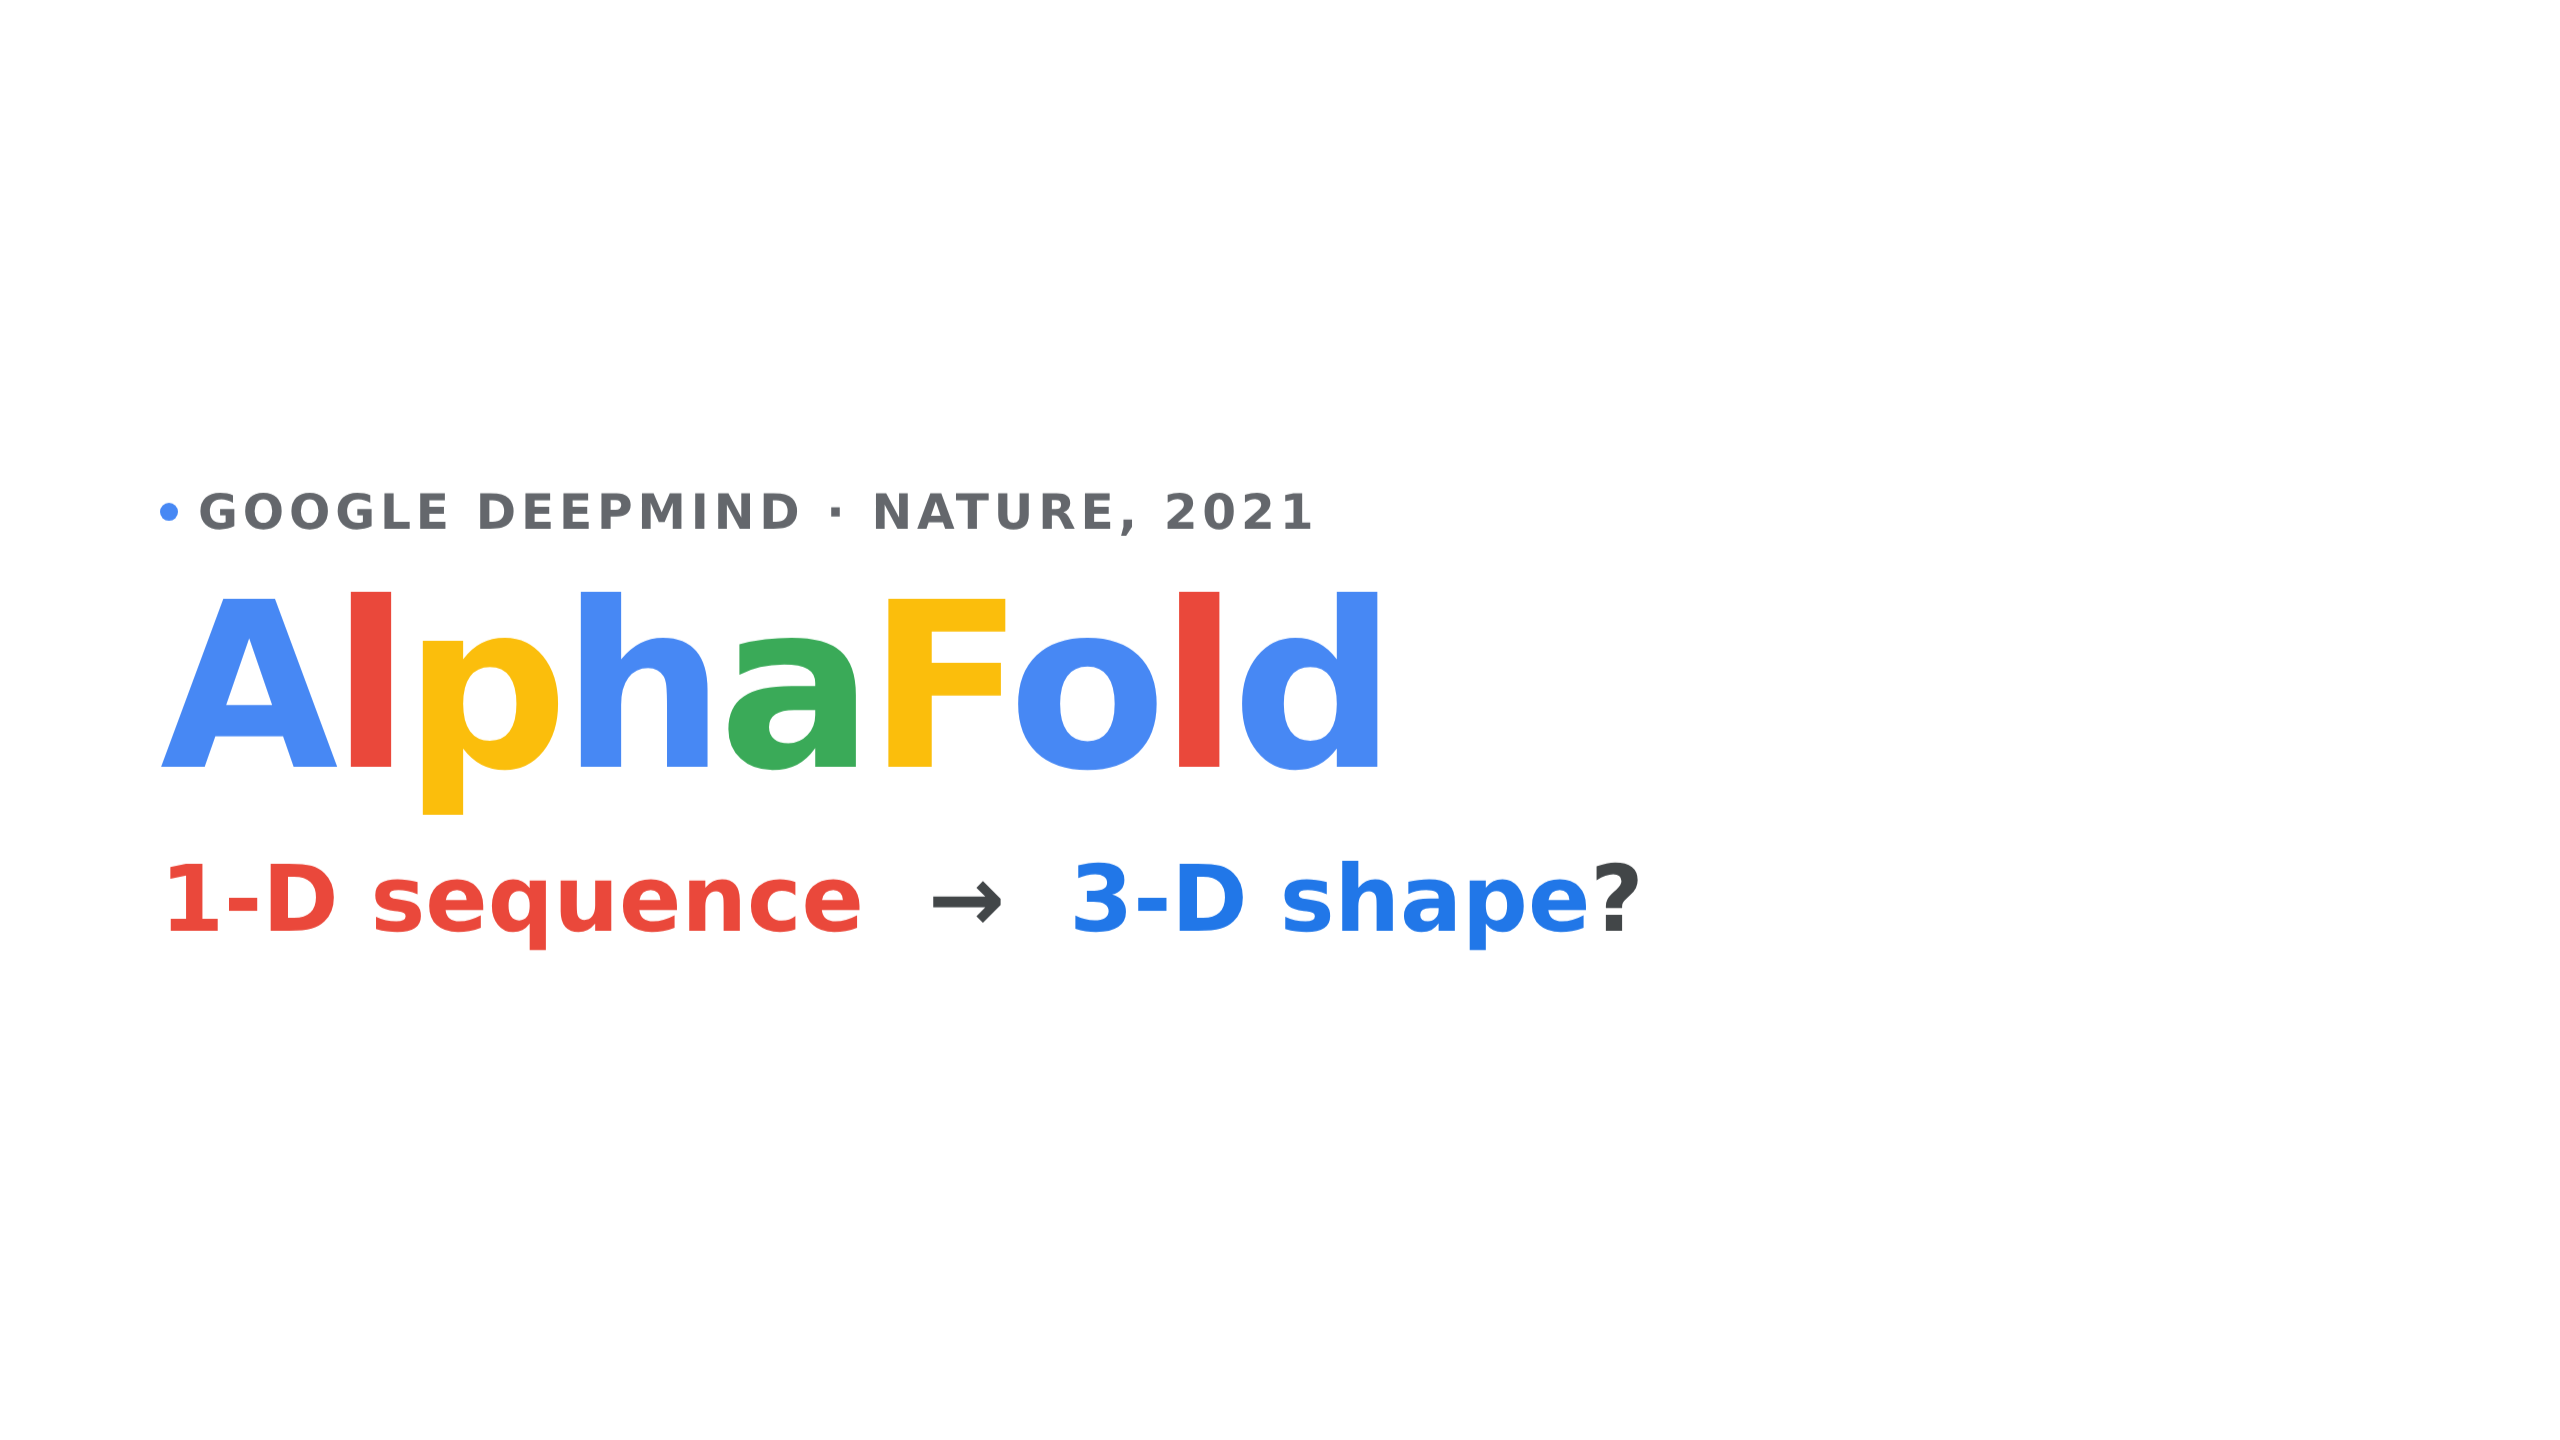
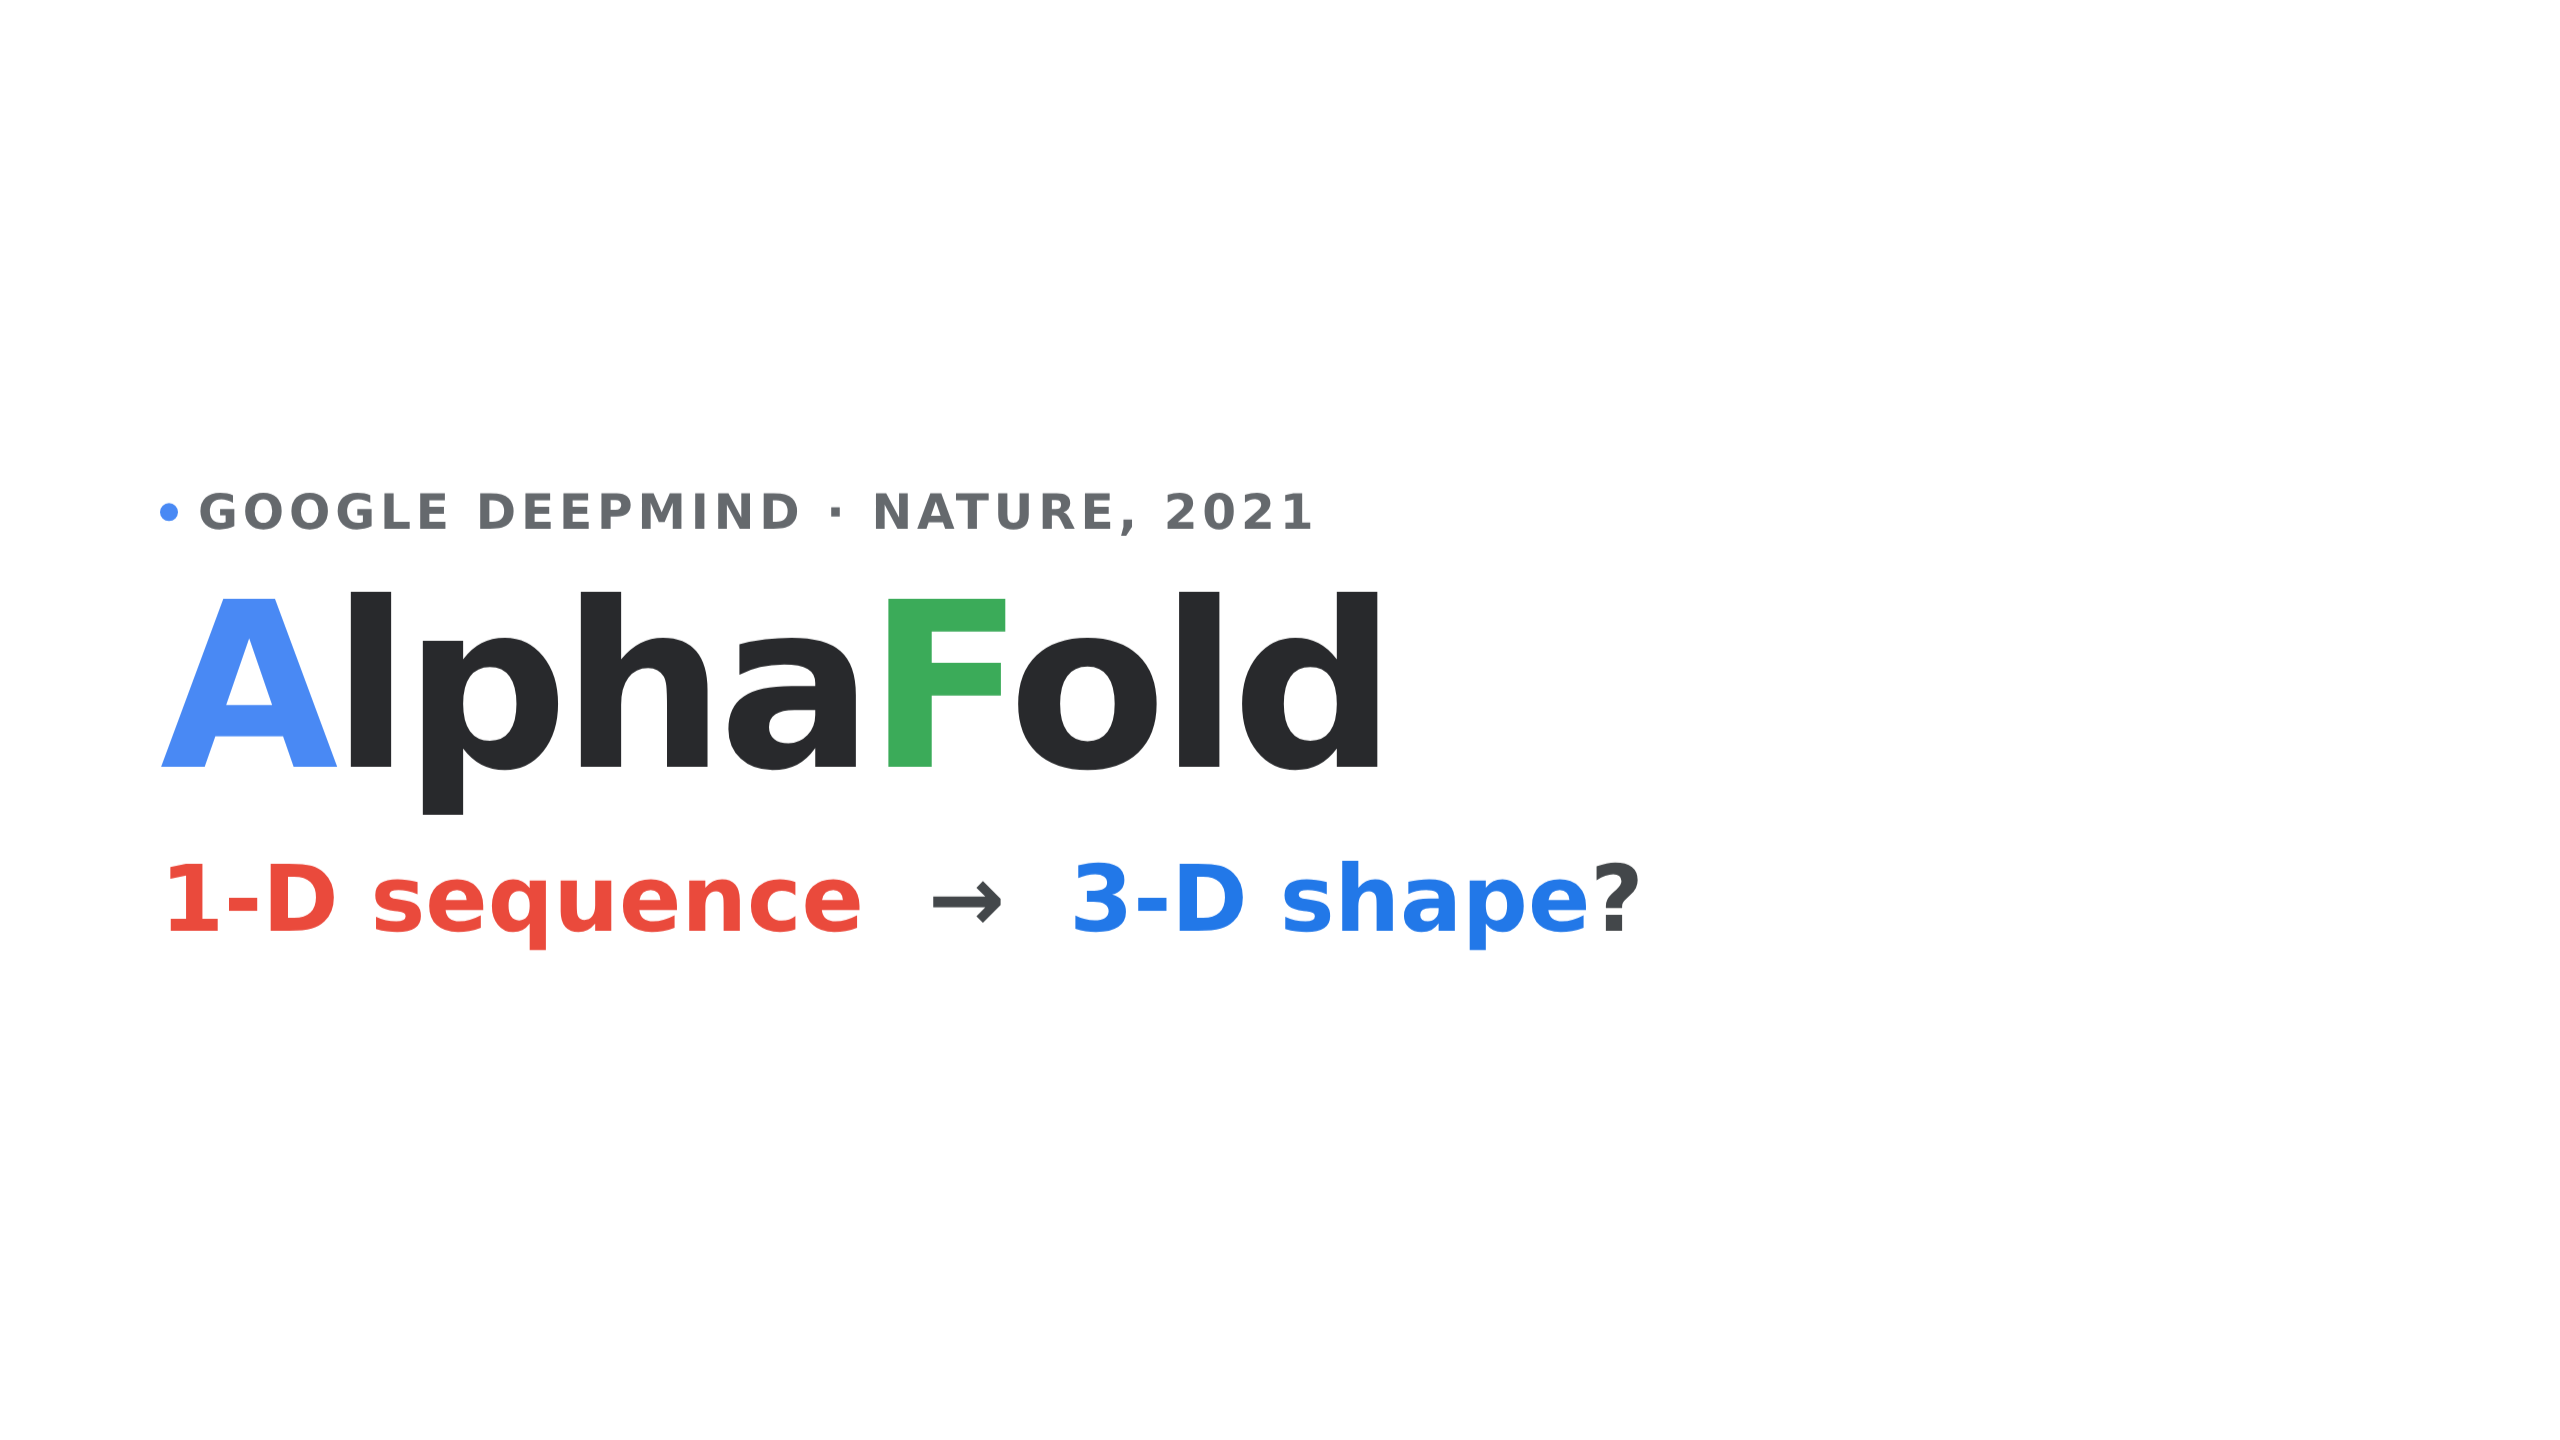
Tone down title wordmark colors
Reduce the AlphaFold wordmark from four brand colors to a mostly-ink
treatment with two cool accents (A blue, F green). Regenerate images.

Claude-Session: https://claude.ai/code/session_01Bs5QxwcQxX81M5Q77HARNf

Changed region(s): [[0.125, 0.4062, 0.5625, 0.5625]]

diff --git a/presentation/alphafold.html b/presentation/alphafold.html
@@ -122,12 +122,12 @@
   /* ---------- title fold ---------- */
   .title-wrap { display:flex; flex-direction:column; gap: clamp(18px,3vh,30px); }
   .wordmark { font-weight:700; letter-spacing:-.03em; }
-  /* colors ordered so red and green never sit adjacent */
-  .wordmark .a1{color:var(--g-blue);} .wordmark .a2{color:var(--g-red);}
-  .wordmark .a3{color:var(--g-yellow);} .wordmark .a4{color:var(--g-blue);}
-  .wordmark .a5{color:var(--g-green);} .wordmark .a6{color:var(--g-yellow);}
-  .wordmark .a7{color:var(--g-blue);} .wordmark .a8{color:var(--g-red);}
-  .wordmark .a9{color:var(--g-blue);}
+  /* calmer wordmark: mostly ink with two cool accents (A blue, F green) */
+  .wordmark .a1{color:var(--g-blue);} .wordmark .a2{color:var(--ink);}
+  .wordmark .a3{color:var(--ink);} .wordmark .a4{color:var(--ink);}
+  .wordmark .a5{color:var(--ink);} .wordmark .a6{color:var(--g-green);}
+  .wordmark .a7{color:var(--ink);} .wordmark .a8{color:var(--ink);}
+  .wordmark .a9{color:var(--ink);}
 
   /* ---------- stat ---------- */
   .stat-row { display:flex; flex-wrap:wrap; gap: clamp(20px,4vw,52px); }
